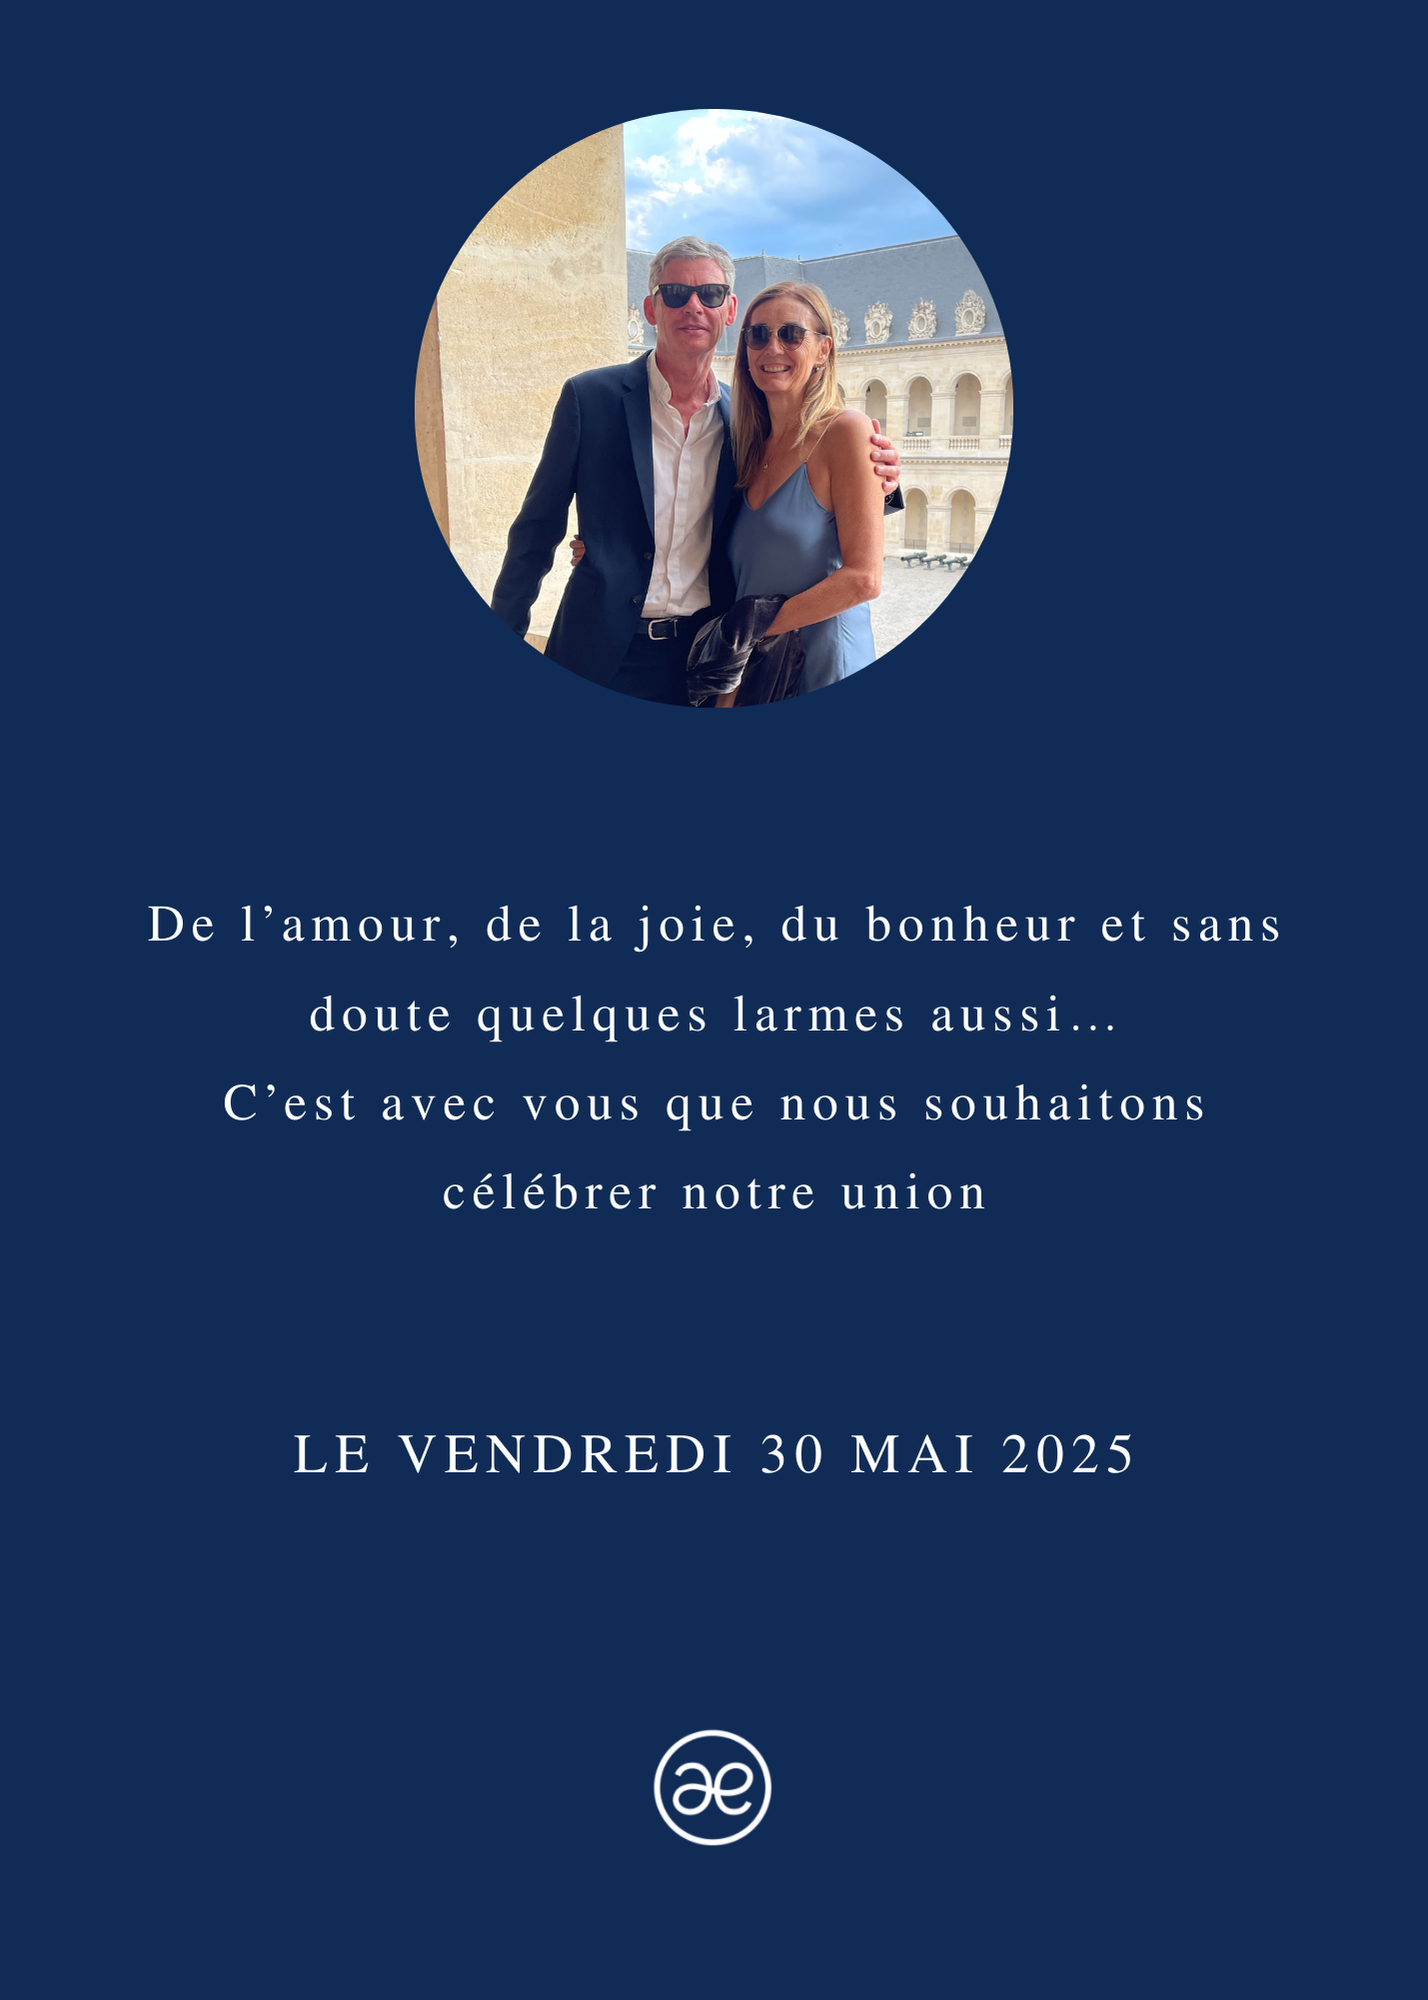
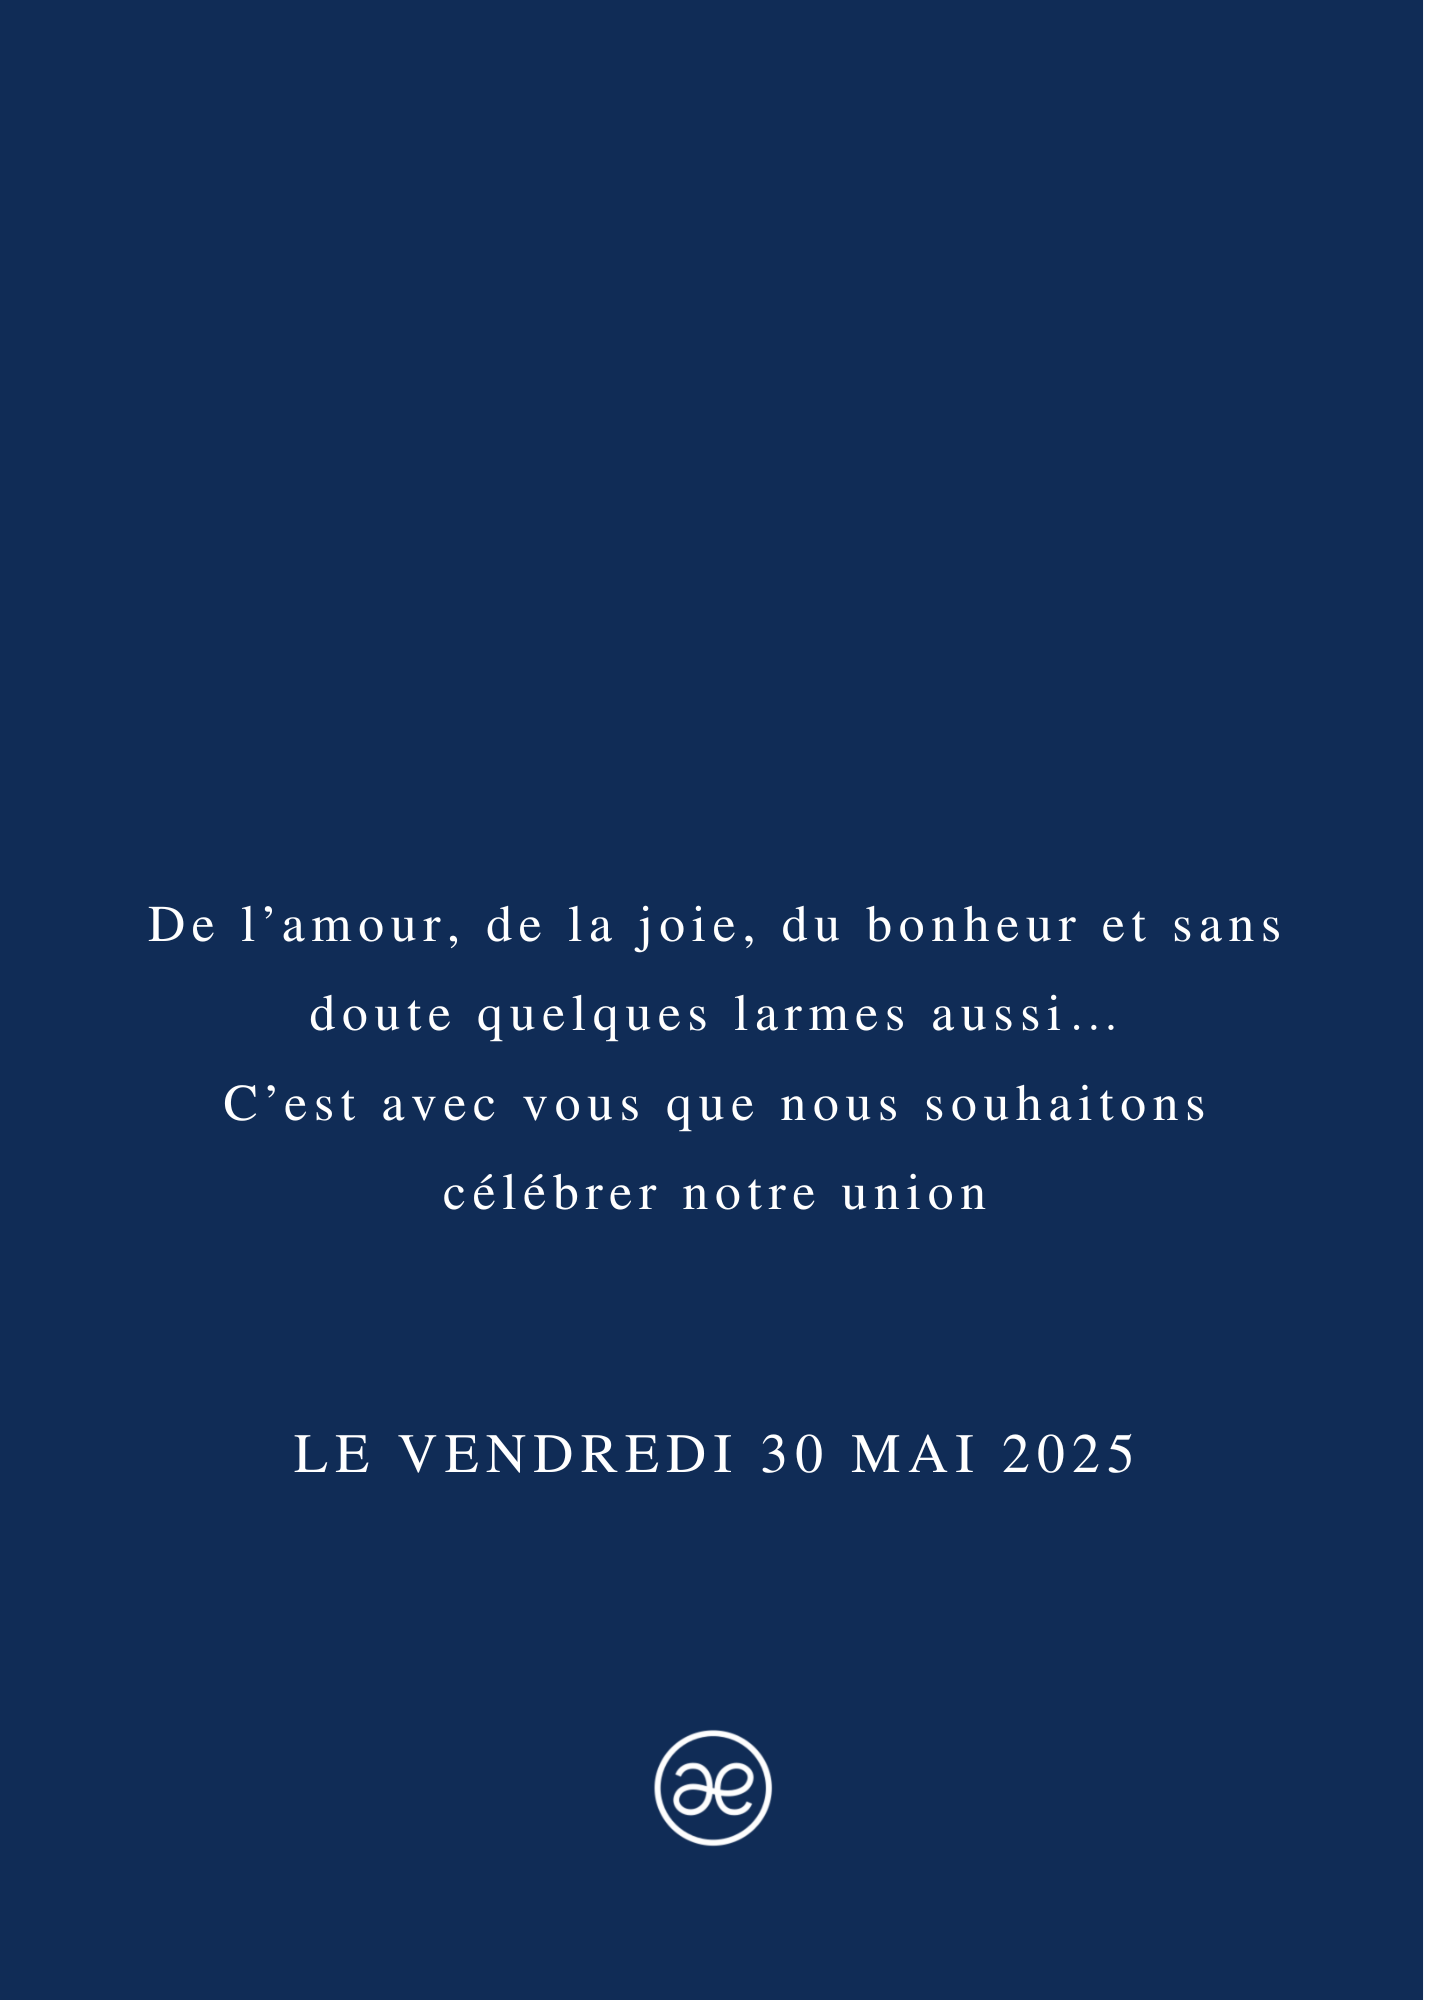
cool

diff --git a/script.js b/script.js
@@ -7,80 +7,65 @@ function adjustFlipbookSize() {
     const screenWidth = window.innerWidth;
     let flipbookWidth, flipbookHeight;
 
-    // Adapte la taille en fonction de la largeur de l'écran
     if (screenWidth > 1024) {
-        // Ordinateur : 80% de la largeur de l'écran
         flipbookWidth = screenWidth * 0.7;
-        flipbookHeight = flipbookWidth * 2 / 3; // Ratio 2:3
+        flipbookHeight = flipbookWidth * 2 / 3;
     } else if (screenWidth > 768) {
-        // Tablette : 90% de la largeur de l'écran
         flipbookWidth = screenWidth * 0.9;
-        flipbookHeight = flipbookWidth * 4 / 5; // Ratio 4:5 pour une meilleure visibilité sur tablette
+        flipbookHeight = flipbookWidth * 4 / 5;
     } else {
-        // Téléphone : 100% de la largeur de l'écran
         flipbookWidth = screenWidth * 0.98;
-        flipbookHeight = flipbookWidth * 5/6; // Ratio 1:1.2 pour téléphone (plus grand en hauteur)
+        flipbookHeight = flipbookWidth * 5/6;
     }
 
-    // Applique les nouvelles dimensions au flipbook
     $('#flipbook').turn("size", flipbookWidth, flipbookHeight);
 }
 
-envelope.addEventListener("click", () => {
+// envelope.addEventListener("click", () => {
+window.onload = function() {
     envelope.classList.toggle("flap");
   
-    // Ajoute un délai pour commencer à déplacer l'enveloppe
     setTimeout(() => {
-      // Fait coulisser l'enveloppe vers le haut en douceur
-      envelope.style.transform = "translateY(-100px)"; // Ajuste la valeur selon le déplacement souhaité
-      envelope.style.transition = "transform 1.5s ease-in-out"; // Durée et easing pour un mouvement fluide
+      envelope.style.transform = "translateY(-100px)";
+      envelope.style.transition = "transform 1.5s ease-in-out";
   
-      // Après le mouvement de l'enveloppe, ajoute l'effet de fondu de la lettre
       setTimeout(() => {
         letter.classList.add("fade-out");
 
-  
-        // Utilise un délai pour cacher complètement la lettre après l'effet de fondu
         setTimeout(() => {
-          // Affiche le flipbook
           flipbook.classList.remove("hidden");
           setTimeout(function() {
             flipbook.classList.add("visible");
-          }, 10); // Petit délai pour permettre la transition
+          }, 10);
   
           
           const screenWidth = window.innerWidth;
           let flipbookWidth, flipbookHeight;
       
-          // Adapte la taille en fonction de la largeur de l'écran
           if (screenWidth > 1024) {
-            // Ordinateur : 80% de la largeur de l'écran
             flipbookWidth = screenWidth * 0.7;
-            flipbookHeight = flipbookWidth * 2 / 3; // Ratio 2:3
+            flipbookHeight = flipbookWidth * 2 / 3; 
             } else if (screenWidth > 768) {
-                // Tablette : 90% de la largeur de l'écran
                 flipbookWidth = screenWidth * 0.9;
-                flipbookHeight = flipbookWidth * 4 / 5; // Ratio 4:5 pour une meilleure visibilité sur tablette
+                flipbookHeight = flipbookWidth * 4 / 5;
             } else {
-                // Téléphone : 100% de la largeur de l'écran
                 flipbookWidth = screenWidth * 0.98;
-                flipbookHeight = flipbookWidth * 5/6; // Ratio 1:1.2 pour téléphone (plus grand en hauteur)
+                flipbookHeight = flipbookWidth * 5/6;
             }
 
-          // Initialise le flipbook avec Turn.js
           $('#flipbook').turn({
-            width: flipbookWidth, // Ajuste à 80% de la largeur de l'écran
-            height: flipbookHeight, // Ajuste la hauteur avec un ratio 4:3
-            autoCenter: true
+            width: flipbookWidth,
+            height: flipbookHeight,
+            autoCenter: true,
+            duration: 2000
           });
             setTimeout(function(){
               $('#flipbook').turn("next");
-          }, 3000);  // Adjust the delay time as needed
-        }, 1000); // Délai pour correspondre à la durée de l'effet de fondu
-      }, 1000); // Délai correspondant à la durée du mouvement de l'enveloppe
-    }, 1000); // Légère attente après l'animation de l'enveloppe
-  });
-  
+          }, 2500);
+        }, 1000);
+      }, 1000);
+    }, 1000);
+  };
   window.addEventListener('resize', adjustFlipbookSize);
   
   

diff --git a/style.css b/style.css
@@ -6,7 +6,6 @@
     --envelope-cover: #102C56;
     --shadow-color: rgba(0, 0, 0, 0.2);
     --txt-color: #444;
-    --heart-color: white;
 }
 
 body {
@@ -85,37 +84,6 @@ body {
     font-size: 10px;
 }
 
-.heart {
-    position: absolute;
-    top: 50%;
-    left: 50%;
-    width: 15px;
-    height: 15px;
-    background-image: url("img/logo-noir.jpg");
-    z-index: 4;
-    transform: translate(-50%, -20%) rotate(-45deg);
-    transition: transform 0.5s ease-in-out 1s;
-    box-shadow: 0 1px 6px var(--shadow-color);
-    cursor: pointer;
-}
-
-.heart::before,
-.heart::after {
-    content: "";
-    position: absolute;
-    width: 15px;
-    height: 15px;
-    background-image: url("img/logo-noir.jpg");
-    border-radius: 50%;
-}
-
-.heart::before {
-    top: -7.5px;
-}
-
-.heart::after {
-    right: -7.5px;
-}
 
 /* Animation d'ouverture de l'enveloppe */
 .flap .envelope::before {
@@ -129,10 +97,6 @@ body {
     transition-delay: 1s;
 }
 
-.flap .heart {
-    transform: rotate(45deg);
-    transition-delay: 0.4s;
-}
 
 .envelope {
     cursor: pointer;
@@ -170,4 +134,33 @@ body {
     width: 300px;
     height: 230px;
     transition: transform 1.5s ease-in-out; /* Transition plus douce pour le mouvement de l'enveloppe */
+}
+
+.logo {
+    position: absolute;
+    top: 50%;
+    left: 50%;
+    width: 50px; /* Ajuste la taille selon tes besoins */
+    height: 50px; /* Ajuste la taille selon tes besoins */
+    transform: translate(-50%, -50%);
+    transition: transform 0.5s ease-in-out 1s;
+    cursor: pointer;
+    z-index:8;
+}
+
+/* Animation d'ouverture de l'enveloppe avec l'image */
+.flap .logo {
+    transform: rotate(45deg) translate(-50%, -50%);
+    transition-delay: 0.4s;
+}
+
+.absolute-image {
+    position: absolute;
+    top: 5%; /* Ajuste la position verticale */
+    left: 50%; /* Centre horizontalement */
+    transform: translateX(-50%); /* Centrage de l'image */
+    width: 45%; /* Ajuste la taille de l'image */
+    height: auto; /* Garde les proportions */
+    z-index:15;
+    border-radius : 50%;
 }

diff --git a/index.html b/index.html
@@ -3,7 +3,7 @@
 <head>
     <meta charset="UTF-8">
     <meta name="viewport" content="width=device-width, initial-scale=1.0">
-    <title>Document</title>
+    <title>Invitation de mariage</title>
     <link rel="stylesheet" href="style.css">
     <script src="https://code.jquery.com/jquery-3.6.0.min.js"></script>
     <script src="https://cdnjs.cloudflare.com/ajax/libs/turn.js/3/turn.min.js"></script>
@@ -16,7 +16,7 @@
                     <img src="img/1.png" alt="Page 1" style="width:100%; height:100%;">
                 </div>
             </div>
-            <div class="heart"><img src="img/logo.svg" alt="logo" style="width:100%; height:100%;"></div>
+            <img src="img/logo.png" alt="Logo" class="logo">
         </div>
 
         <!-- Flipbook caché initialement -->
@@ -25,6 +25,7 @@
                 <img src="img/1.png" alt="Page 1" style="width:100%; height:100%;">
             </div>
             <div class="page">
+                <img src="img/maries.jpg" alt="Image absolue" class="absolute-image">
                 <img src="img/2.png" alt="Page 2" style="width:100%; height:100%;">
             </div>
             <div class="page">
